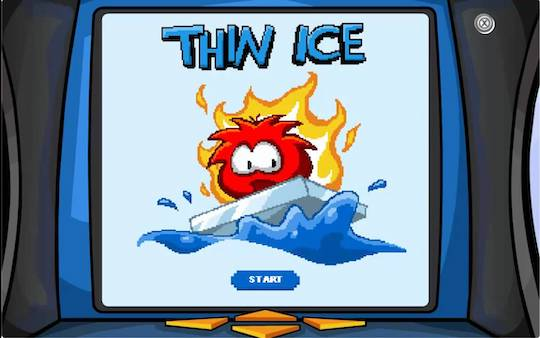
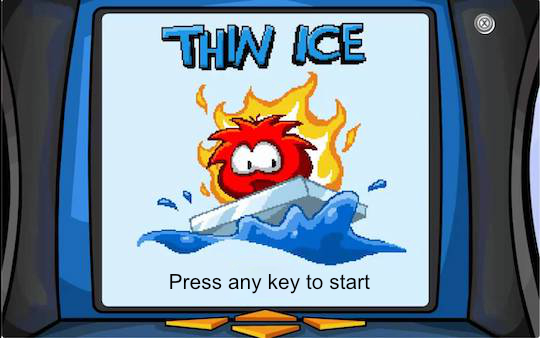
Updated Main menu
> Updated splash screen image
 - Removed original text, which tells user how to start

Changed region(s): [[0.2963, 0.7988, 0.6815, 0.8876], [0.4148, 0.3254, 0.4444, 0.3846]]

diff --git a/src/it3/designpatterns/thinice/GUI.java b/src/it3/designpatterns/thinice/GUI.java
@@ -24,10 +24,6 @@ public class GUI {
         Toolkit t = Toolkit.getDefaultToolkit();
         Image i = t.getImage("src/resources/startScreen.jpg");
         g.drawImage(i, 95, 5, board);
-
-        g.setColor(new Color(255, 255, 255));
-        g.drawString("Start by pressing any key", 320, 370);
-
     }
 
     public void buildLevels(Graphics g, Board board, boolean isCompleted, int score, ArrayList<Piece> world) {
